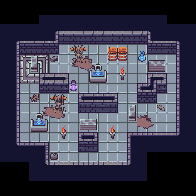
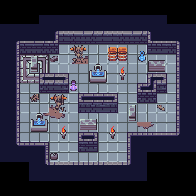
显示Terrain预览

Changed region(s): [[0.3673, 0.2755, 0.4898, 0.3673], [0.6735, 0.5816, 0.7653, 0.6429], [0.2143, 0.5204, 0.3367, 0.5816]]

diff --git a/DungeonShooting_Godot/src/game/ui/mapEditorMapTile/TerrainCell.cs b/DungeonShooting_Godot/src/game/ui/mapEditorMapTile/TerrainCell.cs
@@ -27,10 +27,18 @@ public class TerrainCell : UiCell<MapEditorMapTile.TerrainItem, int>
     public override void OnSetData(int data)
     {
         TileSetTerrainInfo = CellNode.UiPanel.TileSetSourceInfo.Terrain[data];
-        CellNode.L_TerrainName.Instance.Text = TileSetTerrainInfo.Name;
         
         //是否可以使用
-        CellNode.L_ErrorIcon.Instance.Visible = !TileSetTerrainInfo.Ready;
+        if (!TileSetTerrainInfo.Ready)
+        {
+            CellNode.L_ErrorIcon.Instance.Visible = true;
+            CellNode.Instance.TooltipText = "该地形Bit配置未完成，请在TileSet编辑器中配置！";
+        }
+        else
+        {
+            CellNode.L_ErrorIcon.Instance.Visible = false;
+            CellNode.Instance.TooltipText = "";
+        }
         
         if (_image != null)
         {
@@ -45,22 +53,51 @@ public class TerrainCell : UiCell<MapEditorMapTile.TerrainItem, int>
         );
         if (TileSetTerrainInfo.TerrainType == 0) //3x3
         {
-
+            CellNode.L_TerrainName.Instance.Text = TileSetTerrainInfo.Name + "\n3x3";
+            var src = CellNode.UiPanel.TileSetSourceInfo.GetSourceImage();
+            
+            SetImageSrc(src, Center | Right | Bottom | RightBottom, new Vector2I(0, 0));
+            SetImageSrc(src, Center | Left | Right | Bottom | LeftBottom | RightBottom, new Vector2I(GameConfig.TileCellSize, 0));
+            SetImageSrc(src, Center | Left | Bottom | LeftBottom, new Vector2I(GameConfig.TileCellSize * 2, 0));
+            
+            SetImageSrc(src, Center | Right | Top | Bottom | RightTop | RightBottom, new Vector2I(0, GameConfig.TileCellSize));
+            SetImageSrc(src, Center | Left | Right | Bottom | Top | LeftTop | LeftBottom | RightTop | RightBottom, new Vector2I(GameConfig.TileCellSize, GameConfig.TileCellSize));
+            SetImageSrc(src, Center | Left | Top | Bottom | LeftTop | LeftBottom, new Vector2I(GameConfig.TileCellSize * 2, GameConfig.TileCellSize));
+            
+            SetImageSrc(src, Center | Right | Top | RightTop, new Vector2I(0, GameConfig.TileCellSize * 2));
+            SetImageSrc(src, Center | Left | Top | Right | LeftTop | RightTop, new Vector2I(GameConfig.TileCellSize, GameConfig.TileCellSize * 2));
+            SetImageSrc(src, Center | Left | Top | LeftTop, new Vector2I(GameConfig.TileCellSize * 2, GameConfig.TileCellSize * 2));
         }
         else //2x2
         {
+            CellNode.L_TerrainName.Instance.Text = TileSetTerrainInfo.Name + "\n2x2";
             var src = CellNode.UiPanel.TileSetSourceInfo.GetSourceImage();
-            int[] temp;
-            if (TileSetTerrainInfo.T.TryGetValue(Center | RightBottom, out temp))
-            {
-                var pos = TileSetTerrainInfo.GetPosition(temp);
-                _image.BlitRect(src, new Rect2I(pos * GameConfig.TileCellSize, GameConfig.TileCellSizeVector2I), new Vector2I(0, 0));
-            }
+            
+            SetImageSrc(src, Center | RightBottom, new Vector2I(0, 0));
+            SetImageSrc(src, Center | LeftBottom | RightBottom, new Vector2I(GameConfig.TileCellSize, 0));
+            SetImageSrc(src, Center | LeftBottom, new Vector2I(GameConfig.TileCellSize * 2, 0));
+            
+            SetImageSrc(src, Center | RightTop | RightBottom, new Vector2I(0, GameConfig.TileCellSize));
+            SetImageSrc(src, Center | LeftTop | LeftBottom | RightTop | RightBottom, new Vector2I(GameConfig.TileCellSize, GameConfig.TileCellSize));
+            SetImageSrc(src, Center | LeftTop | LeftBottom, new Vector2I(GameConfig.TileCellSize * 2, GameConfig.TileCellSize));
+            
+            SetImageSrc(src, Center | RightTop, new Vector2I(0, GameConfig.TileCellSize * 2));
+            SetImageSrc(src, Center | LeftTop | RightTop, new Vector2I(GameConfig.TileCellSize, GameConfig.TileCellSize * 2));
+            SetImageSrc(src, Center | LeftTop, new Vector2I(GameConfig.TileCellSize * 2, GameConfig.TileCellSize * 2));
         }
         
         _texture.SetImage(_image);
     }
 
+    private void SetImageSrc(Image src, uint bit, Vector2I dst)
+    {
+        if (TileSetTerrainInfo.T.TryGetValue(bit, out var temp))
+        {
+            var pos = TileSetTerrainInfo.GetPosition(temp);
+            _image.BlitRect(src, new Rect2I(pos * GameConfig.TileCellSize, GameConfig.TileCellSizeVector2I), dst);
+        }
+    }
+    
     public override void OnDestroy()
     {
         if (_texture != null)
